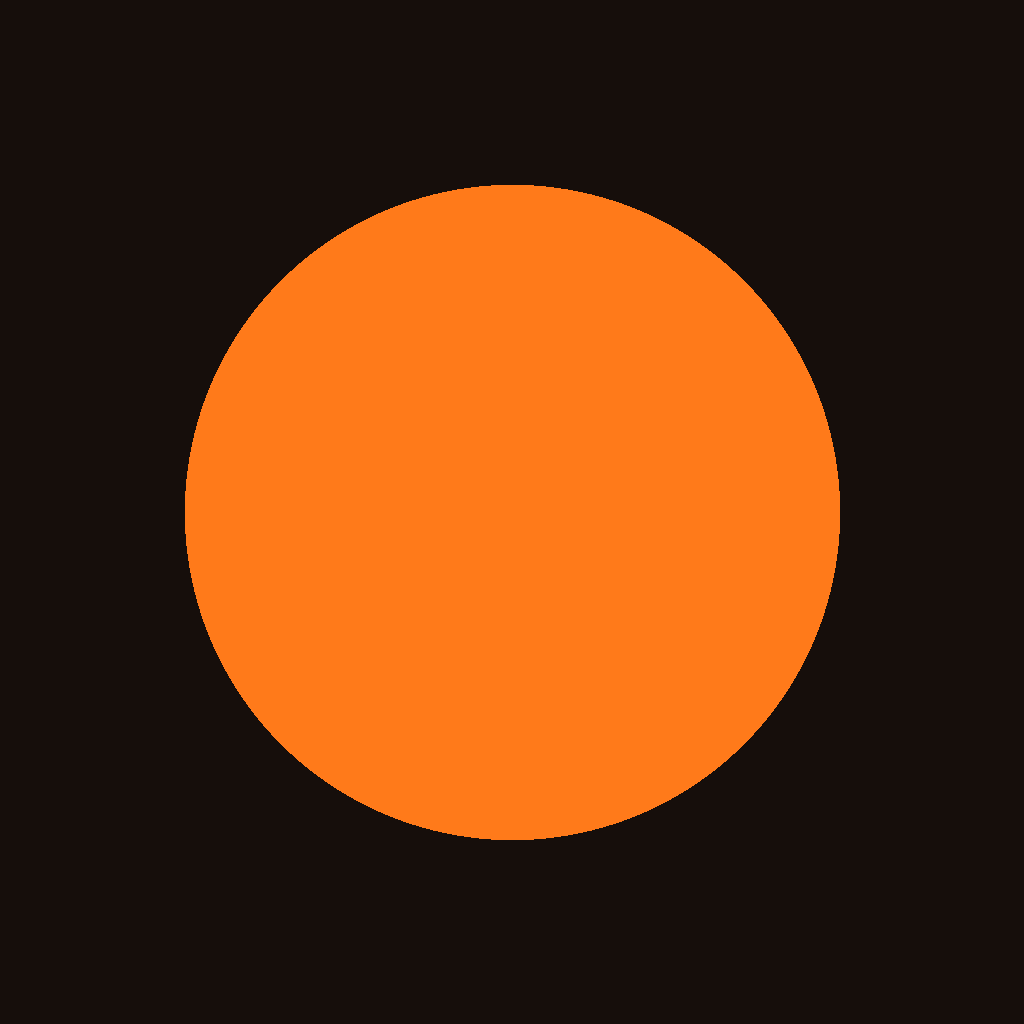
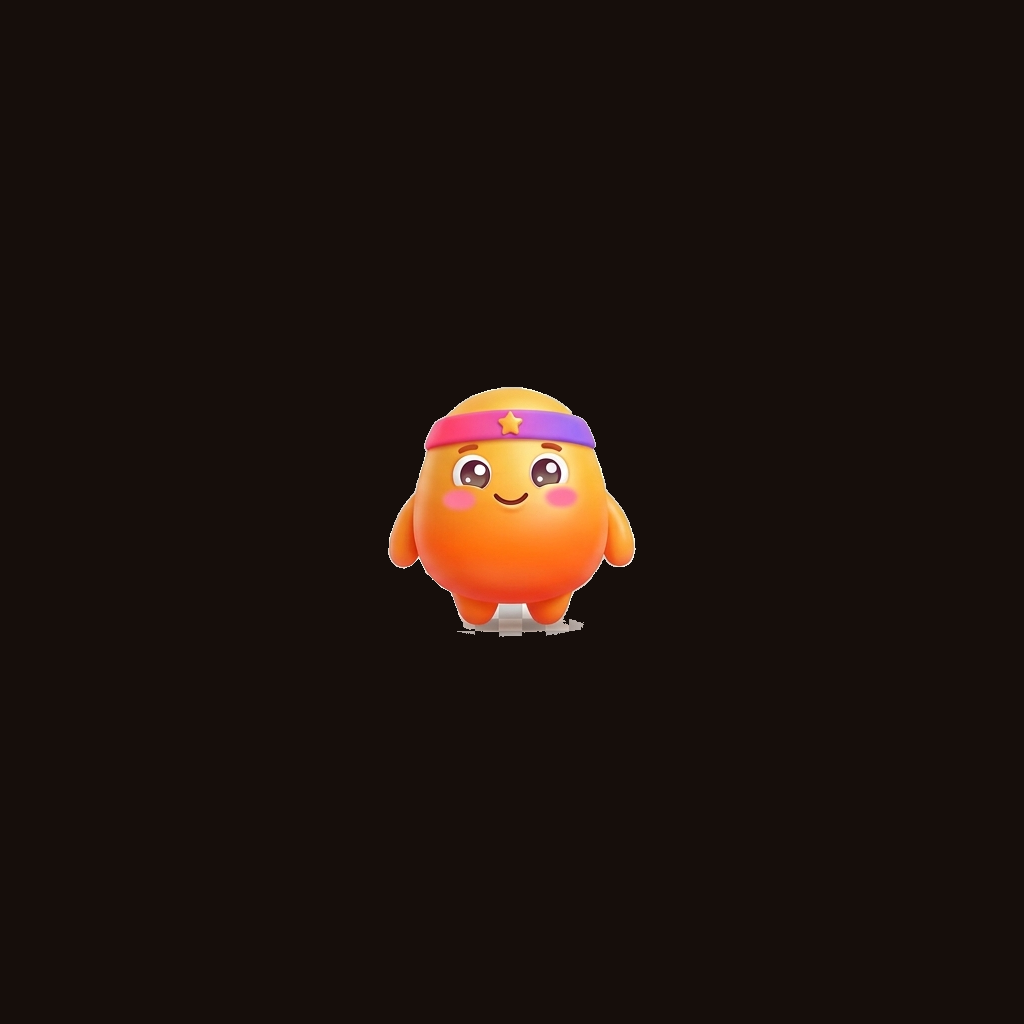
feat(design): vraie mascotte Gymo (illustrations) + icône app
- Intègre les 8 poses illustrées de Gymo (idle, wave, thumbsup, flex, jump,
  wink, lift, celebrate) : fond en damier détouré (flood-fill) et recadré.
- Mascot.tsx affiche une pose (expo-image) avec rebond animé ; "coucou"
  sur l'onboarding, idle sur connexion/états vides.
- Icône de l'app, icône adaptative et splash régénérés à partir de Gymo.
- Retrait de react-native-svg (mascotte SVG remplacée par les illustrations).

Claude-Session: https://claude.ai/code/session_01Nch87VwkRJJBytJ6tEaFFu

diff --git a/src/components/Mascot.tsx b/src/components/Mascot.tsx
@@ -1,84 +1,55 @@
+import { Image } from 'expo-image';
 import { useEffect } from 'react';
-import { View } from 'react-native';
 import Animated, {
-  useAnimatedProps,
   useAnimatedStyle,
   useSharedValue,
   withRepeat,
   withSequence,
   withTiming,
 } from 'react-native-reanimated';
-import Svg, { Circle, Ellipse, G, Path, Rect } from 'react-native-svg';
 
-import { colors } from '@/theme/colors';
+// Les 8 poses de Gymo (illustrations détourées).
+const POSES = {
+  idle: require('../../assets/mascot/idle.png'),
+  wave: require('../../assets/mascot/wave.png'),
+  thumbsup: require('../../assets/mascot/thumbsup.png'),
+  flex: require('../../assets/mascot/flex.png'),
+  jump: require('../../assets/mascot/jump.png'),
+  wink: require('../../assets/mascot/wink.png'),
+  lift: require('../../assets/mascot/lift.png'),
+  celebrate: require('../../assets/mascot/celebrate.png'),
+} as const;
 
-const AEllipse = Animated.createAnimatedComponent(Ellipse);
+export type MascotPose = keyof typeof POSES;
 
-// Gymo — la mascotte de Gym Partner. Rebondit doucement et cligne des yeux.
-export function Mascot({ size = 140 }: { size?: number }) {
+// Gymo, la mascotte : illustration qui rebondit doucement (Reanimated).
+export function Mascot({
+  pose = 'idle',
+  size = 140,
+}: {
+  pose?: MascotPose;
+  size?: number;
+}) {
   const bounce = useSharedValue(0);
-  const blink = useSharedValue(1);
-
   useEffect(() => {
     bounce.value = withRepeat(
       withSequence(
-        withTiming(-8, { duration: 850 }),
-        withTiming(0, { duration: 850 }),
+        withTiming(-8, { duration: 900 }),
+        withTiming(0, { duration: 900 }),
       ),
       -1,
       true,
     );
-    blink.value = withRepeat(
-      withSequence(
-        withTiming(1, { duration: 2400 }),
-        withTiming(0.1, { duration: 90 }),
-        withTiming(1, { duration: 90 }),
-      ),
-      -1,
-    );
-  }, [bounce, blink]);
-
-  const wrap = useAnimatedStyle(() => ({ transform: [{ translateY: bounce.value }] }));
-  const eyeProps = useAnimatedProps(() => ({ ry: 8 * blink.value }));
+  }, [bounce]);
+  const style = useAnimatedStyle(() => ({ transform: [{ translateY: bounce.value }] }));
 
   return (
-    <Animated.View style={wrap}>
-      <View style={{ width: size, height: size }}>
-        <Svg viewBox="0 0 120 128" width={size} height={size}>
-          {/* ombre */}
-          <Ellipse cx="60" cy="120" rx="34" ry="6" fill="rgba(0,0,0,0.35)" />
-          {/* bras */}
-          <Ellipse cx="16" cy="74" rx="10" ry="14" fill={colors.primary} />
-          <Ellipse cx="104" cy="74" rx="10" ry="14" fill={colors.primary} />
-          {/* petit haltère */}
-          <G>
-            <Rect x="98" y="86" width="20" height="6" rx="3" fill={colors.muted} />
-            <Circle cx="98" cy="89" r="7" fill={colors.violet} />
-            <Circle cx="118" cy="89" r="7" fill={colors.violet} />
-          </G>
-          {/* corps */}
-          <Ellipse cx="60" cy="68" rx="42" ry="46" fill={colors.primary} />
-          {/* ventre clair */}
-          <Ellipse cx="60" cy="78" rx="26" ry="28" fill="#FFD0A6" opacity={0.55} />
-          {/* bandeau */}
-          <Path d="M22 44 Q60 30 98 44 L98 54 Q60 40 22 54 Z" fill={colors.ember} />
-          <Circle cx="20" cy="49" r="5" fill={colors.ember} />
-          {/* joues */}
-          <Circle cx="36" cy="74" r="7" fill={colors.ember} opacity={0.5} />
-          <Circle cx="84" cy="74" r="7" fill={colors.ember} opacity={0.5} />
-          {/* yeux (clignent) */}
-          <AEllipse cx="46" cy="64" rx="6" animatedProps={eyeProps} fill="#1c1108" />
-          <AEllipse cx="74" cy="64" rx="6" animatedProps={eyeProps} fill="#1c1108" />
-          {/* sourire */}
-          <Path
-            d="M48 82 Q60 94 72 82"
-            stroke="#1c1108"
-            strokeWidth="4"
-            strokeLinecap="round"
-            fill="none"
-          />
-        </Svg>
-      </View>
+    <Animated.View style={style}>
+      <Image
+        source={POSES[pose]}
+        style={{ width: size, height: size }}
+        contentFit="contain"
+      />
     </Animated.View>
   );
 }

diff --git a/app/(auth)/onboarding.tsx b/app/(auth)/onboarding.tsx
@@ -32,7 +32,7 @@ export default function Onboarding() {
           style={{ borderRadius: 28, marginTop: 8, padding: 20 }}
         >
           <View className="flex-row items-center gap-3">
-            <Mascot size={76} />
+            <Mascot pose="wave" size={84} />
             <View className="flex-1">
               <Text className="text-3xl font-extrabold text-background">Bienvenue 👋</Text>
               <Text className="mt-1 font-semibold text-background/80">
